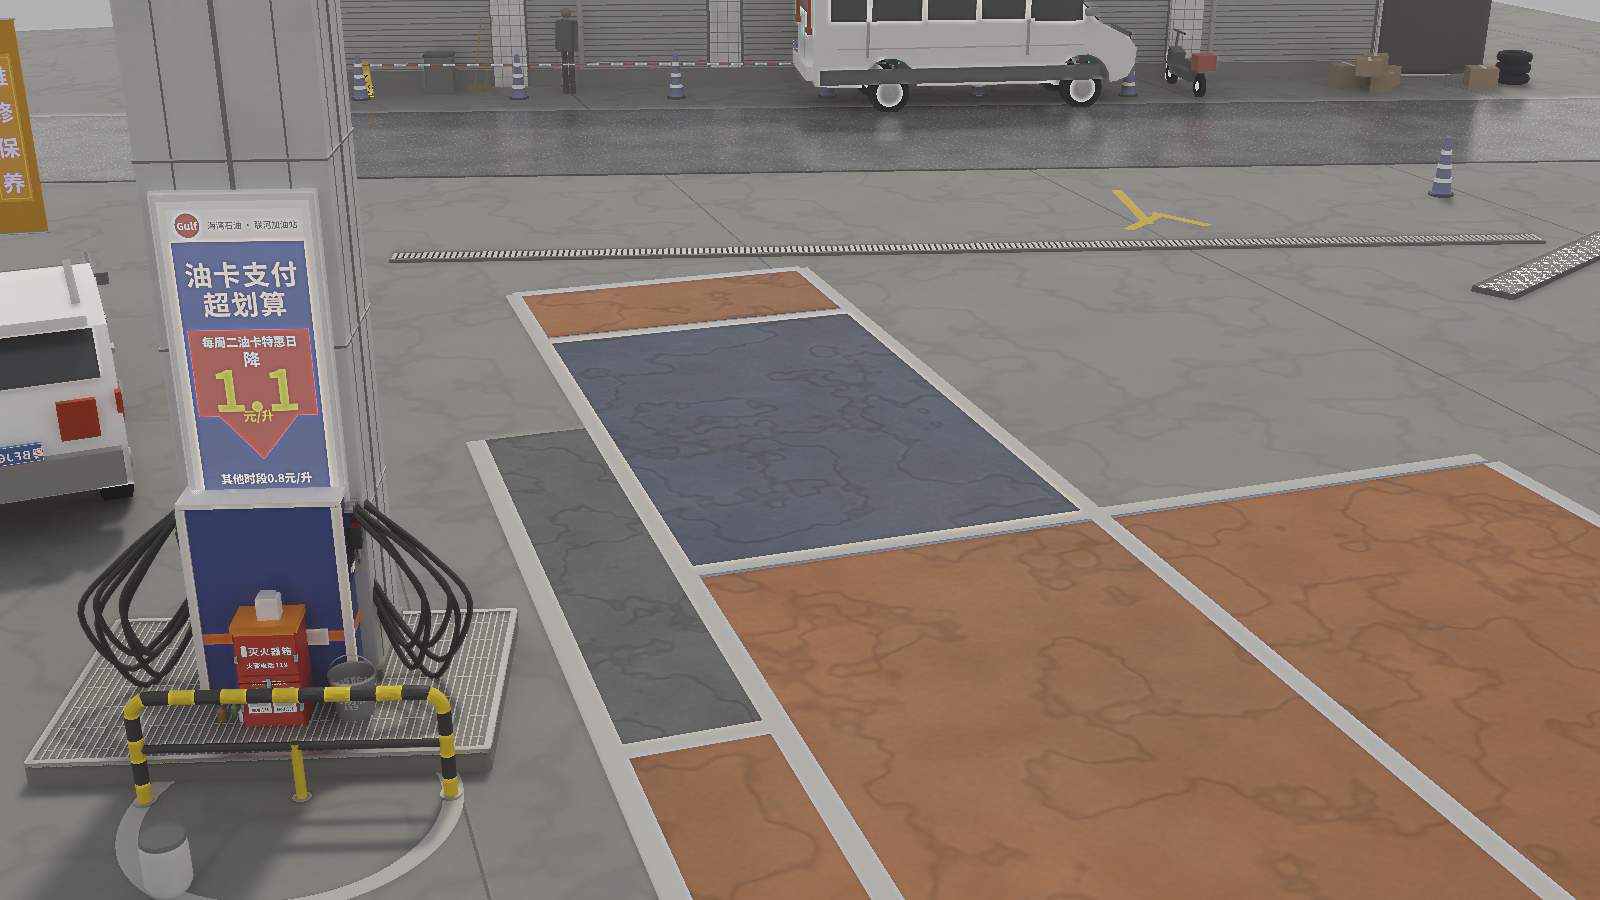
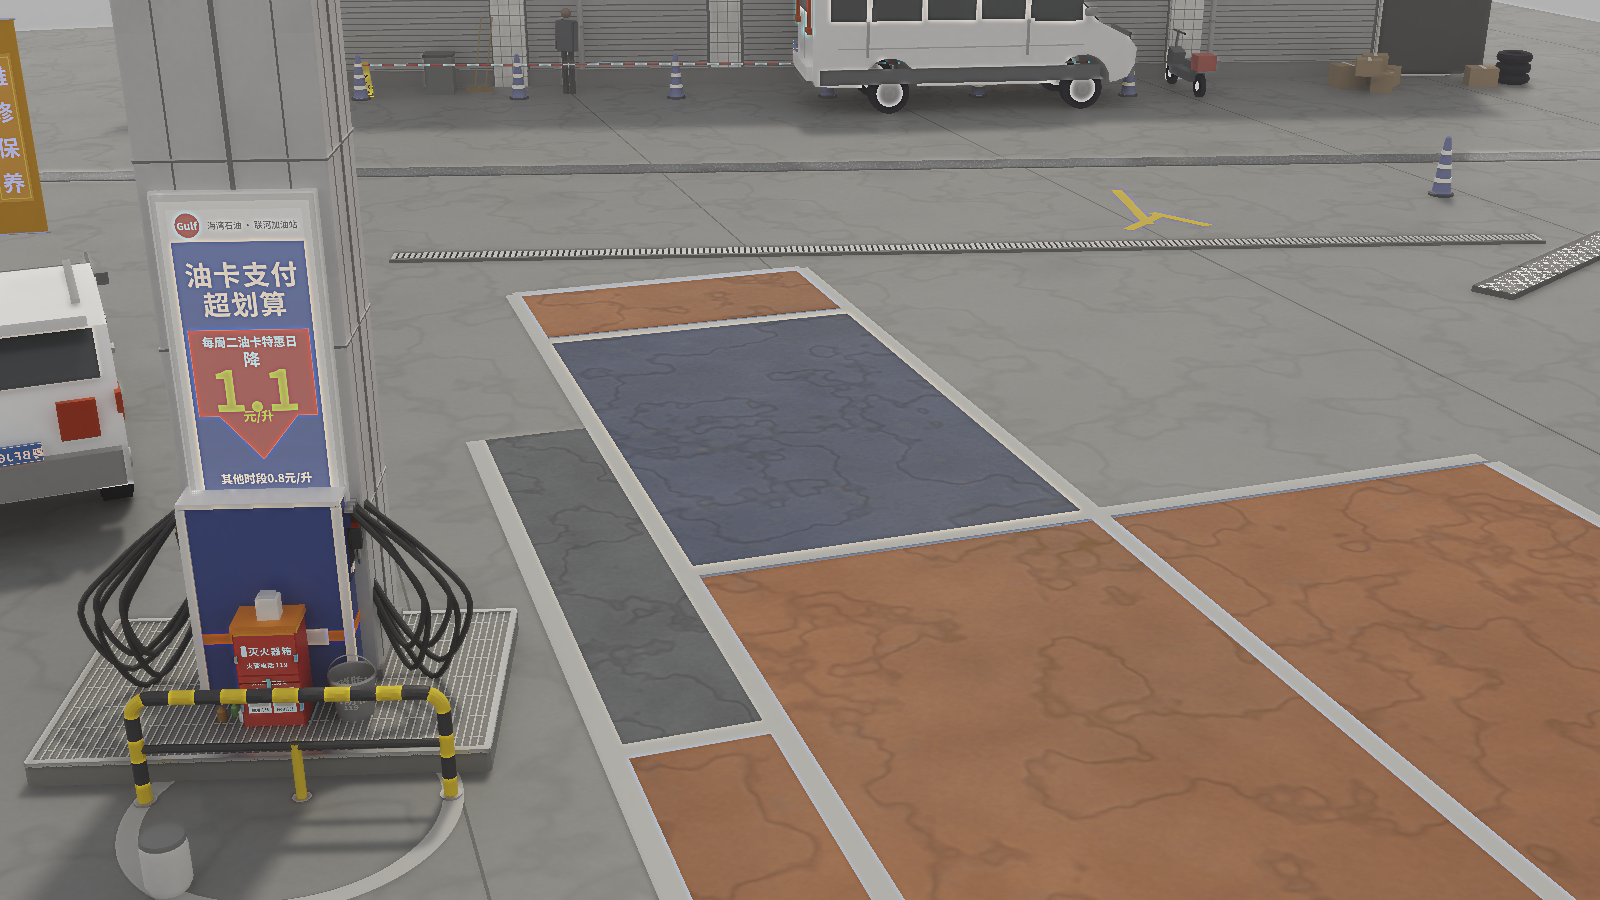
tighten the wet lobe, and make the drain the hole it is

Changed region(s): [[0.2188, 0.1244, 1.0, 0.2178], [0.9375, 0.0933, 0.9688, 0.1244], [0.0312, 0.1867, 0.0625, 0.2178]]

diff --git a/examples/cases/forecourt/parts.py b/examples/cases/forecourt/parts.py
@@ -674,10 +674,13 @@ def drain_channel(length=13.0, w=0.28):
     for s in (-1, 1):
         p.place(cbox(length, 0.055, 0.045, 0.008), at=[0, s * (w / 2 + 0.028), 0.020],
                 material=CONCRETE)
-    p.place(box(length, w, 0.03), at=[0, 0, 0.006], material=BLACK)
+    # A drain is a HOLE. The photograph reads 0.025 there — near black, the darkest thing
+    # in the frame — and this was rendering 0.32 because a grey trough with steel bars over
+    # it is not dark, it is a grey trough with steel bars over it.
+    p.place(box(length, w, 0.24), at=[0, 0, -0.10], material=mat((0.008, 0.008, 0.009), 0.0, 0.9))
     for k in range(int(length / 0.075)):
-        p.place(box(0.048, w, 0.020), at=[-length / 2 + 0.037 + k * 0.075, 0, 0.028],
-                material=STEEL)
+        p.place(box(0.040, w, 0.018), at=[-length / 2 + 0.037 + k * 0.075, 0, 0.026],
+                material=mat((0.16, 0.162, 0.165), 1.0, 0.42))
     return p
 
 

diff --git a/src/mirage/textures.py b/src/mirage/textures.py
@@ -369,7 +369,7 @@ _LIBRARY = {
     # brightens into the distance because Fresnel climbs steeply at grazing angles — which
     # is exactly what the photograph does (0.53 near, 0.80 at fifteen metres) and exactly
     # what a matte 0.72 cannot do, however dark or light its albedo is set.
-    "forecourt_concrete": lambda: _concrete(RES, 101, (0.200, 0.205, 0.208), crack=0.22, stain=0.95, wet=0.85, rough_base=0.46),
+    "forecourt_concrete": lambda: _concrete(RES, 101, (0.200, 0.205, 0.208), crack=0.22, stain=0.95, wet=0.95, rough_base=0.30),
     "asphalt_wet":        lambda: _asphalt(RES, 107, (0.095, 0.100, 0.110)),
     "bay_blue":           lambda: _painted_bay(RES, 113, (0.052, 0.070, 0.128), (0.105, 0.110, 0.115), wet=0.85, wear_amt=0.45),
     "bay_orange":         lambda: _painted_bay(RES, 127, (0.300, 0.122, 0.050), (0.185, 0.165, 0.145), wet=0.45, faded=0.35, wear_amt=0.35),
